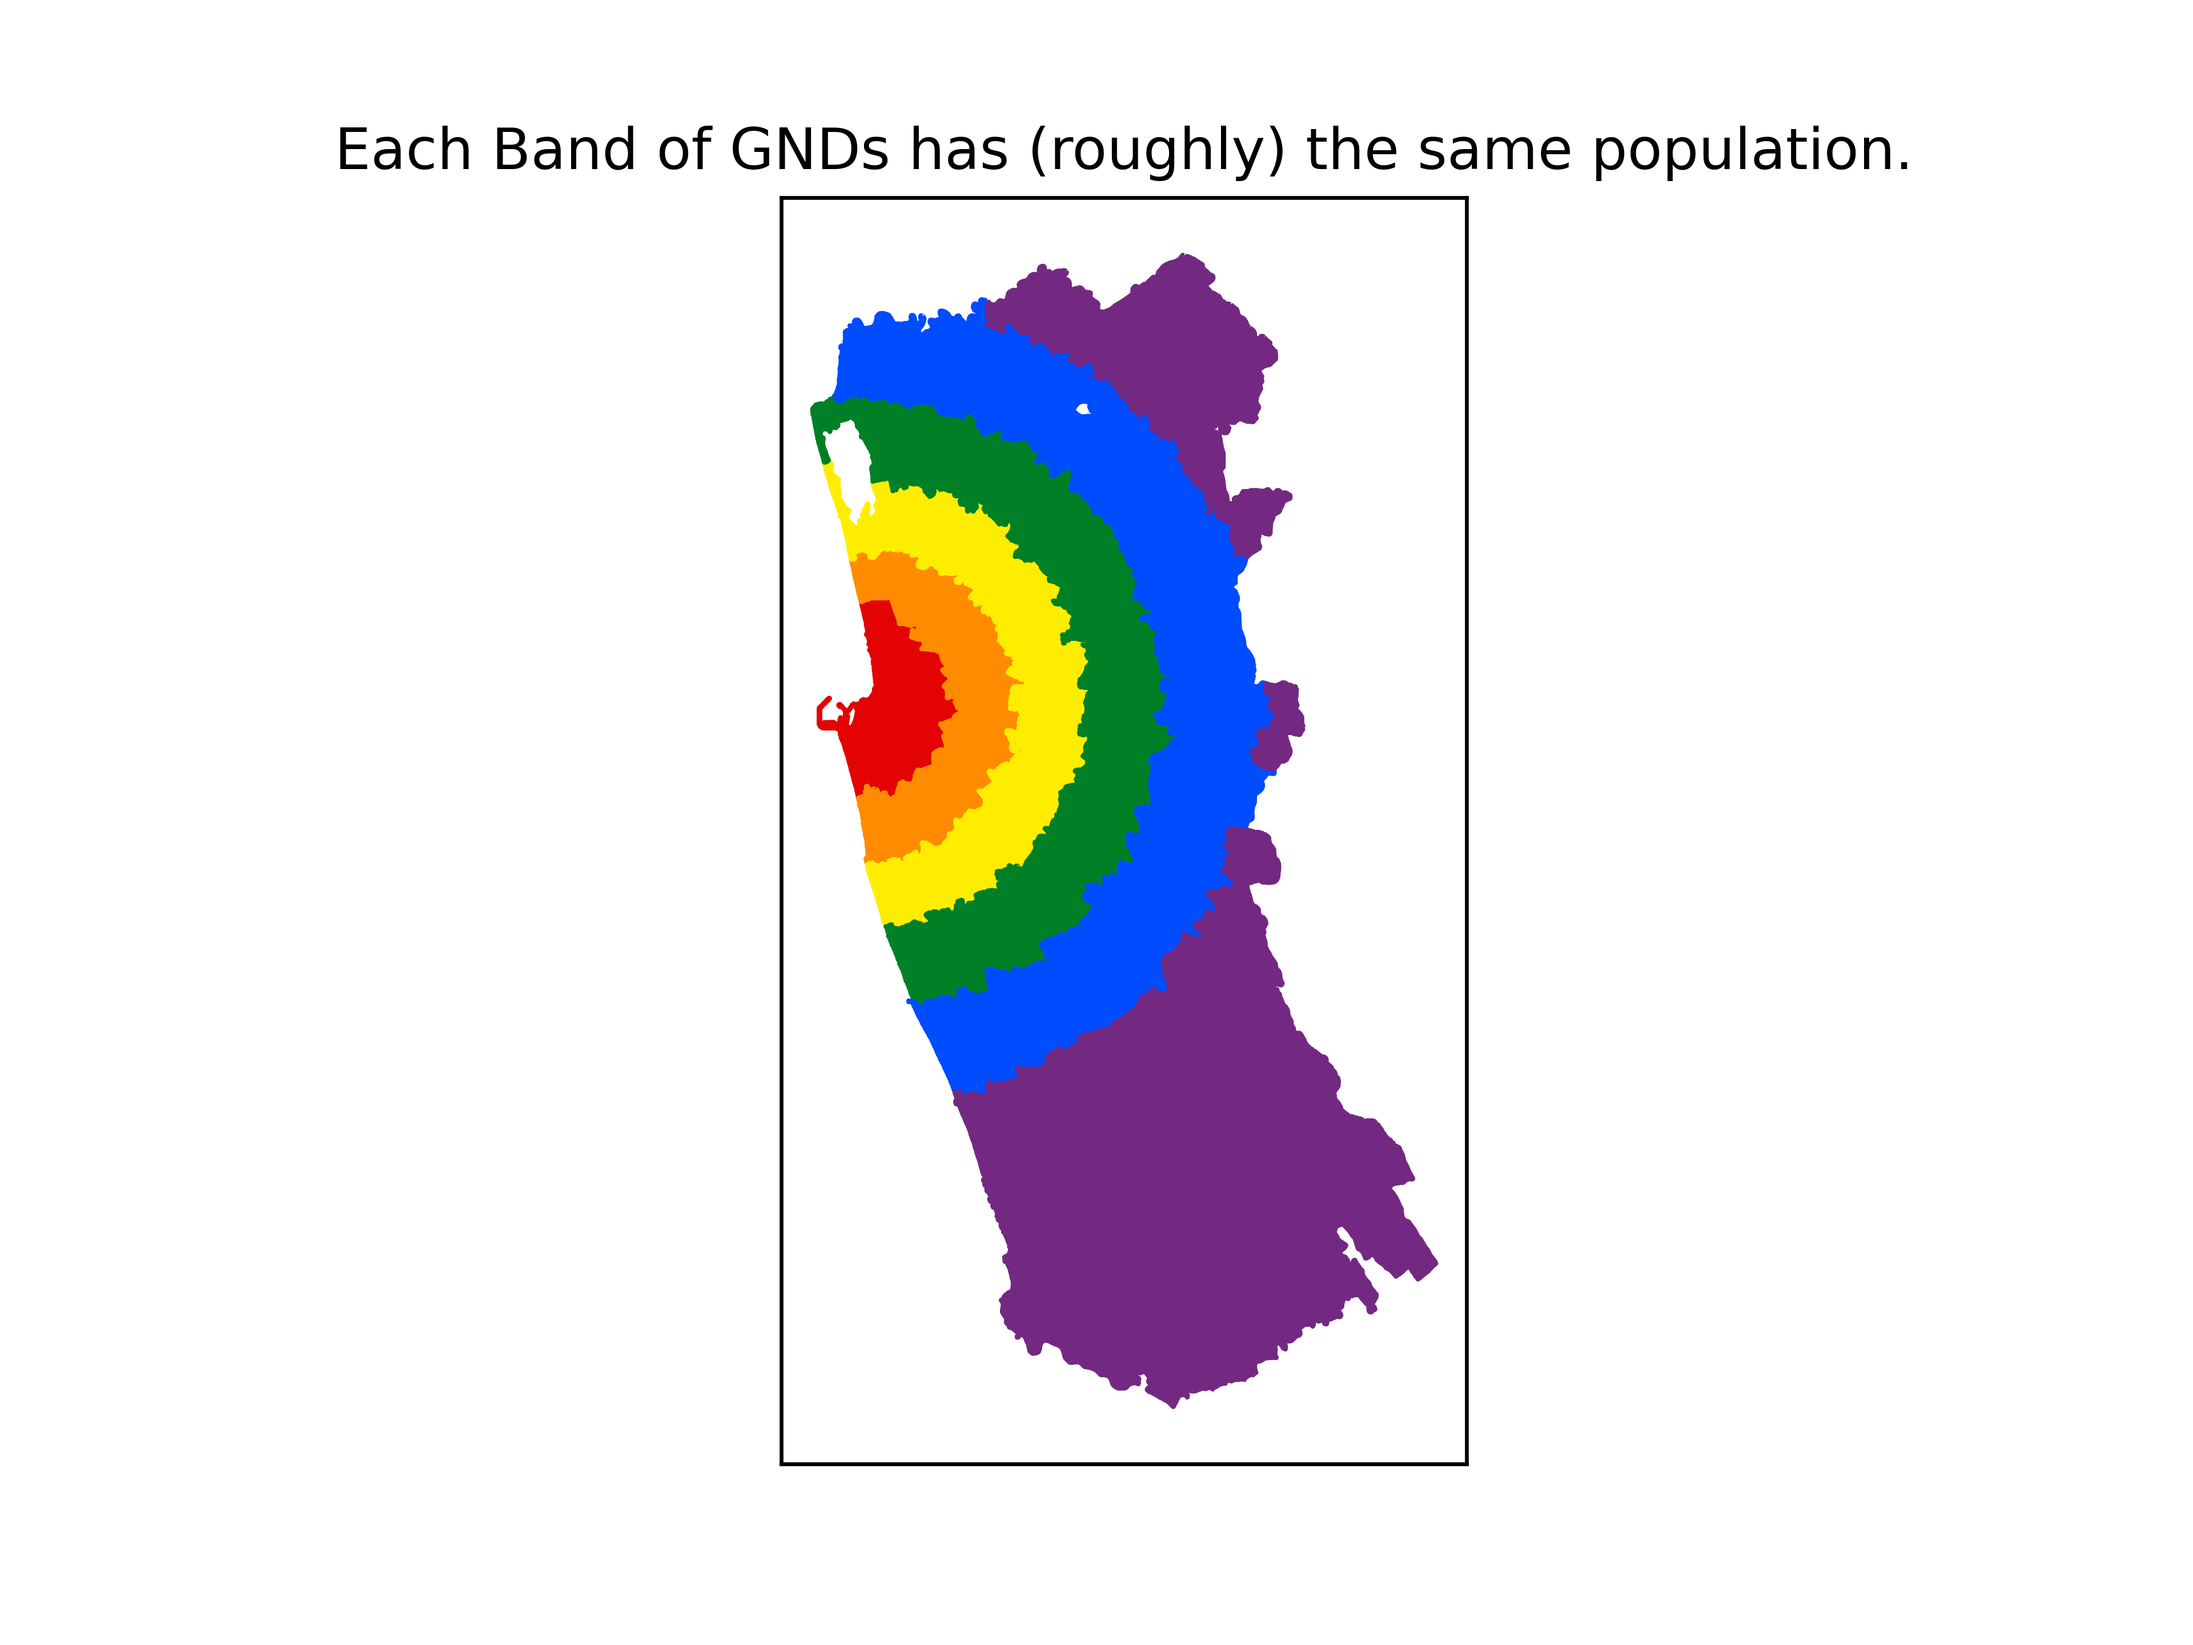
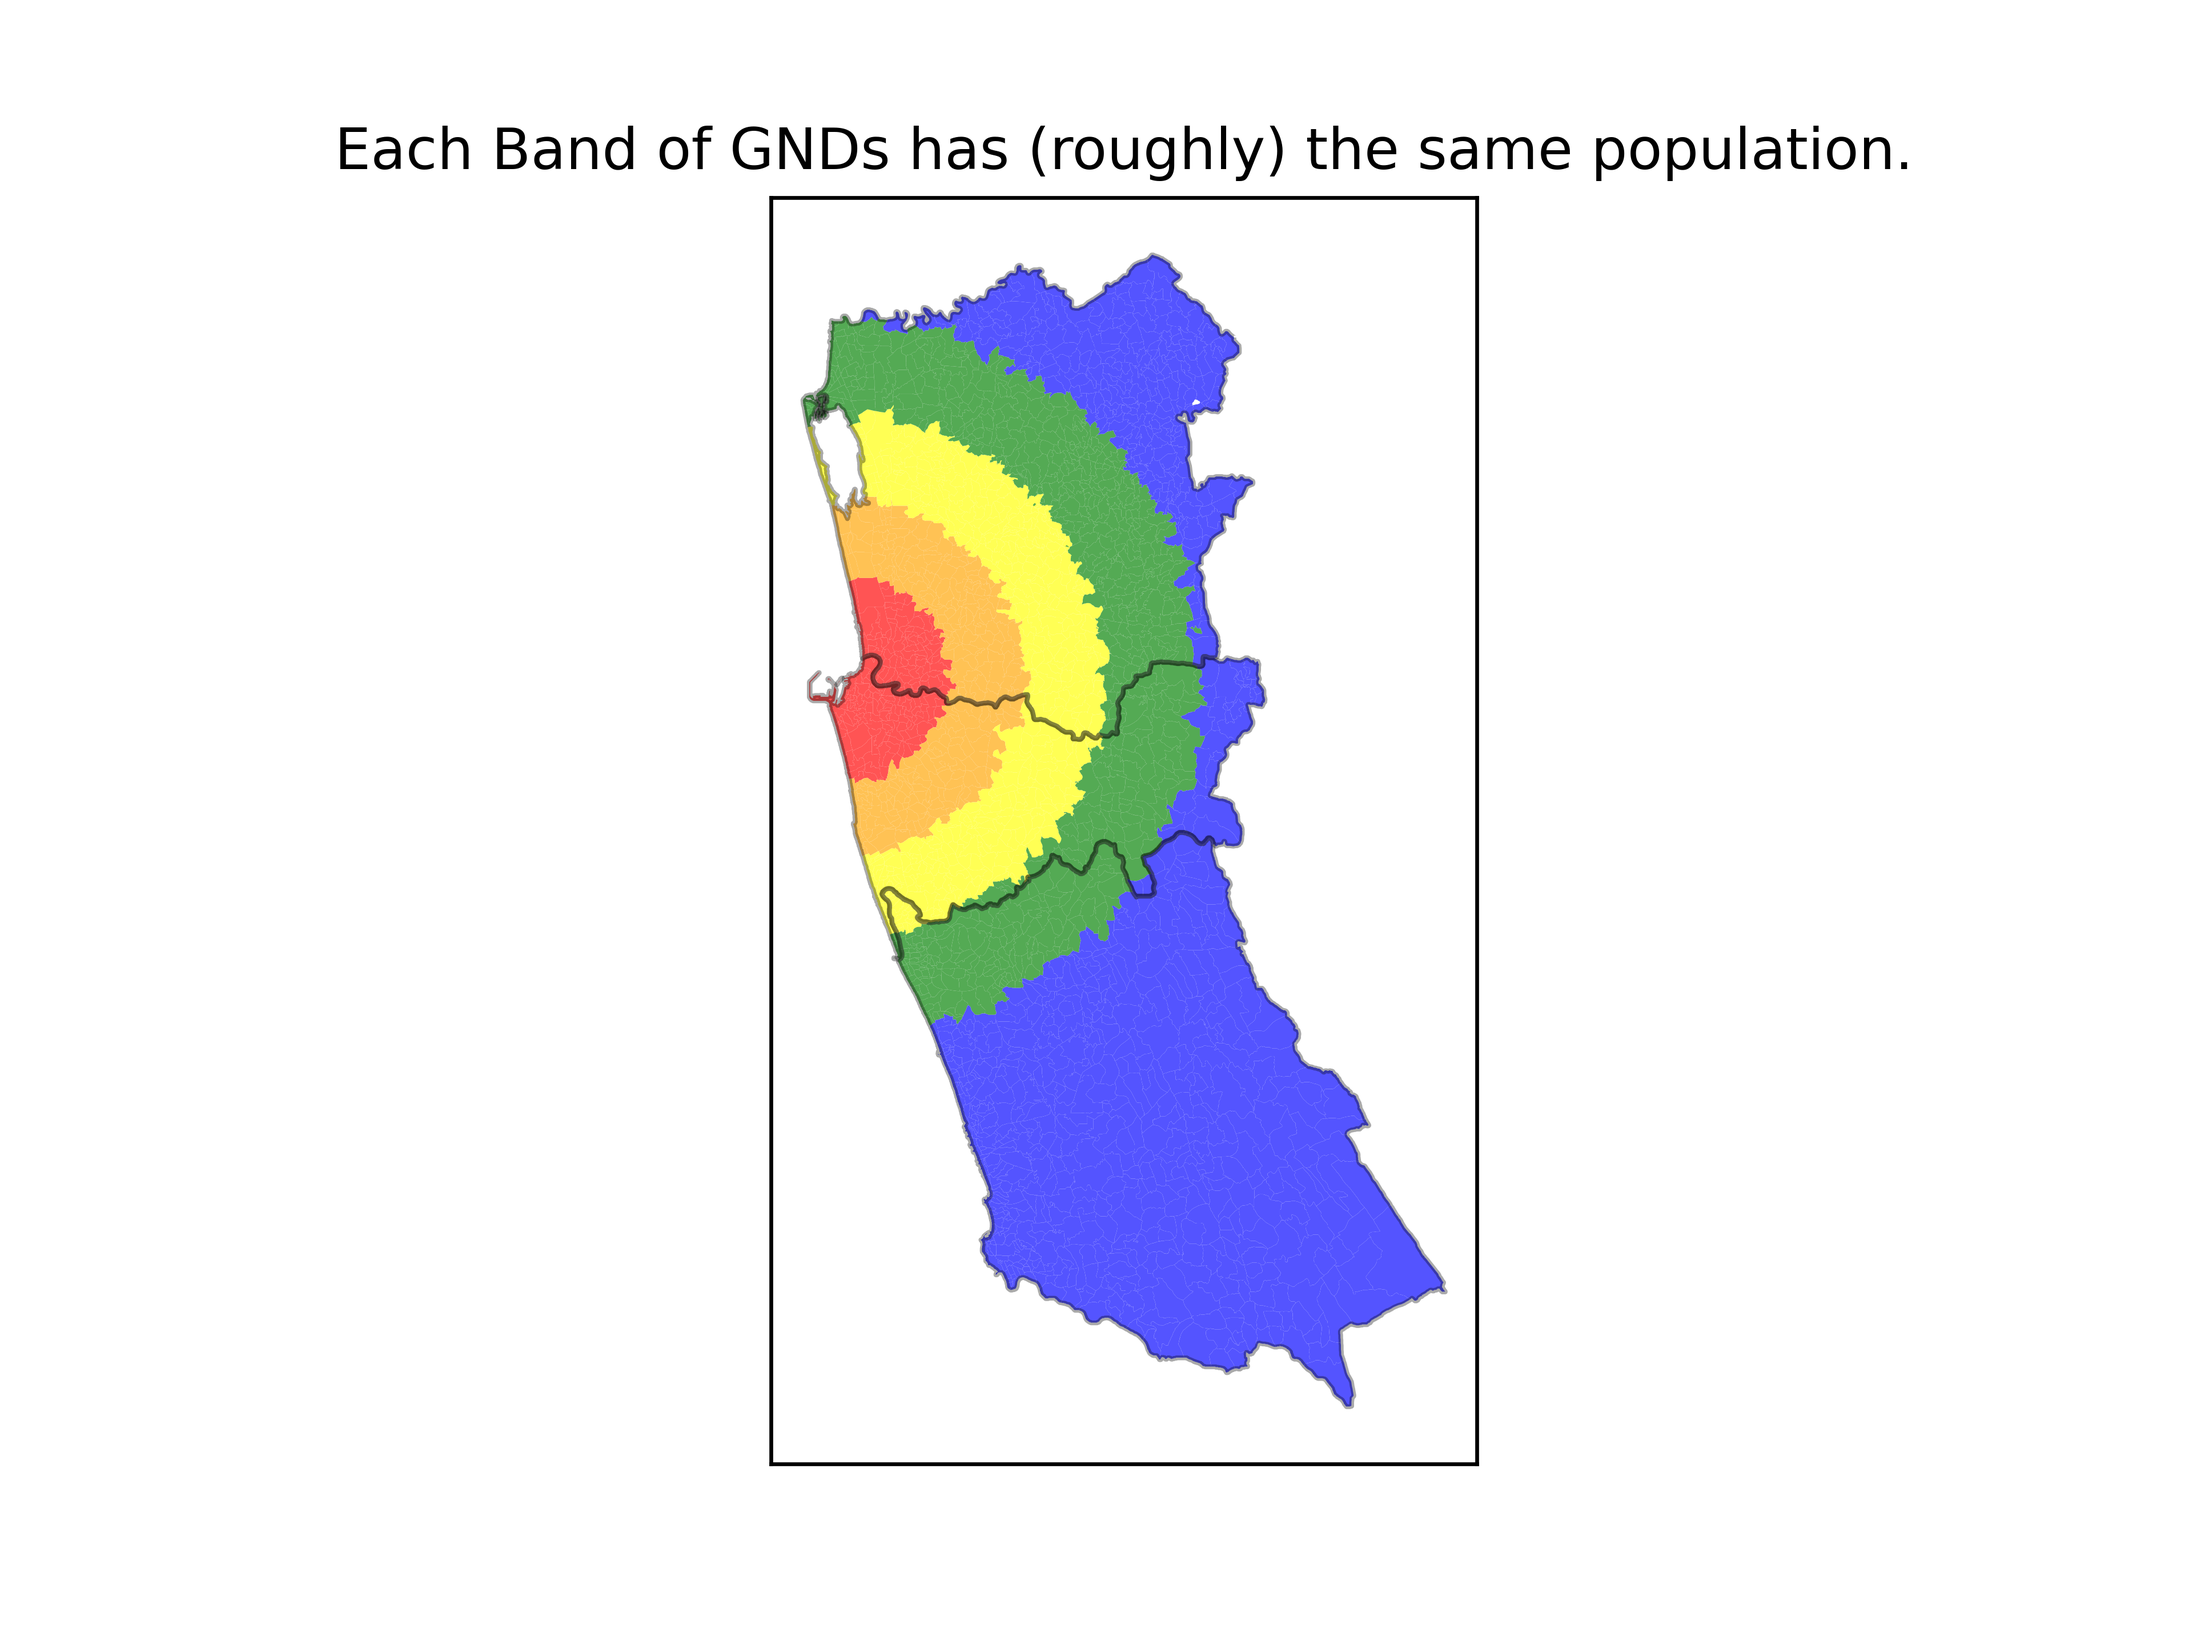
various

Changed region(s): [[0.3438, 0.125, 0.6875, 0.875]]

diff --git a/examples/example_9_pop_bands.py b/examples/example_9_pop_bands.py
@@ -11,16 +11,16 @@ COLORS = ['red', 'orange', 'yellow', 'green', 'blue']
 N_COLORS = len(COLORS)
 
 ENT_TYPE = EntType.GND
-PARENT_ENT_ID = "LK"
+PARENT_ENT_ID_LIST = ["LK-1"]
 
 # CENTER = [9.663203555637029, 80.01332119260337] # LK-4
 CENTER = [6.961312108947133, 79.85694398099878] # LK-11, LK-1
-N_BANDS = 22
+N_BANDS = 5
 
 def get_progress(p):
     N_BARS = 10
     n = int(p * N_BARS)
-    bars = "🟩" * n + "-" * (N_BARS - n)
+    bars = "🟩" * n + "⬛" * (N_BARS - n)
     return f'[{bars} {p:.1%}]'
 
 def get_distance(p1, p2):
@@ -30,9 +30,14 @@ def get_distance(p1, p2):
 def get_color(i_band):
     return COLORS[i_band % N_COLORS]
 
+def is_in_parent(id):
+    for parent_ent_id in PARENT_ENT_ID_LIST:
+        if parent_ent_id in id:
+            return True
+    return False
 
 def get_ents_list():
-    ents = [ent for ent in Ent.list_from_type(ENT_TYPE) if PARENT_ENT_ID in ent.id]
+    ents = [ent for ent in Ent.list_from_type(ENT_TYPE) if is_in_parent(ent.id)]
     
     ents.sort(
         key=lambda ent: get_distance(ent.centroid, CENTER)
@@ -64,7 +69,7 @@ def get_geo_idx(ent_list):
     def get_worker(i, ent):
         def worker(i=i,ent=ent):
             p = i / n
-            print(f'[{get_progress(p)}] {ent.id} {ent.name}'.ljust(80), end='\r')
+            print(f'{get_progress(p)} {ent.id} {ent.name}'.ljust(80), end='\r')
             try:
                 geo = ent.geo()
             except Exception as e:
@@ -90,7 +95,7 @@ def draw():
     for i, ent_info in enumerate(ent_info_list, start=1):
         p = i / n
         ent = ent_info['ent']
-        print(f'[{get_progress(p)}] Drawing {ent.id} {ent.name}'.ljust(80), end='\r')
+        print(f'{get_progress(p)} Drawing {ent.id} {ent.name}'.ljust(80), end='\r')
         
         color = ent_info['color']        
         geo = geo_idx[ent.id]
@@ -100,7 +105,7 @@ def draw():
 
     
     for ent in Ent.list_from_type(EntType.DISTRICT):
-        if PARENT_ENT_ID in ent.id:
+        if is_in_parent(ent.id):
             geo = ent.geo()
             geo.plot(ax=ax, color="white", edgecolor='black', linewidth=1, alpha=0.333)
 
@@ -111,7 +116,8 @@ def draw():
 
     plt.title(f"Each Band of {ENT_TYPE.name.upper()}s has (roughly) the same population.")
 
-    image_path = __file__ + f'.{ENT_TYPE.name}.{PARENT_ENT_ID}.png'
+    parent_id_str = '-'.join(PARENT_ENT_ID_LIST)
+    image_path = __file__ + f'.{ENT_TYPE.name}.{parent_id_str}.png'
     plt.savefig(image_path, dpi=600)
     plt.close()
     log.info(f'Saved {image_path}')
